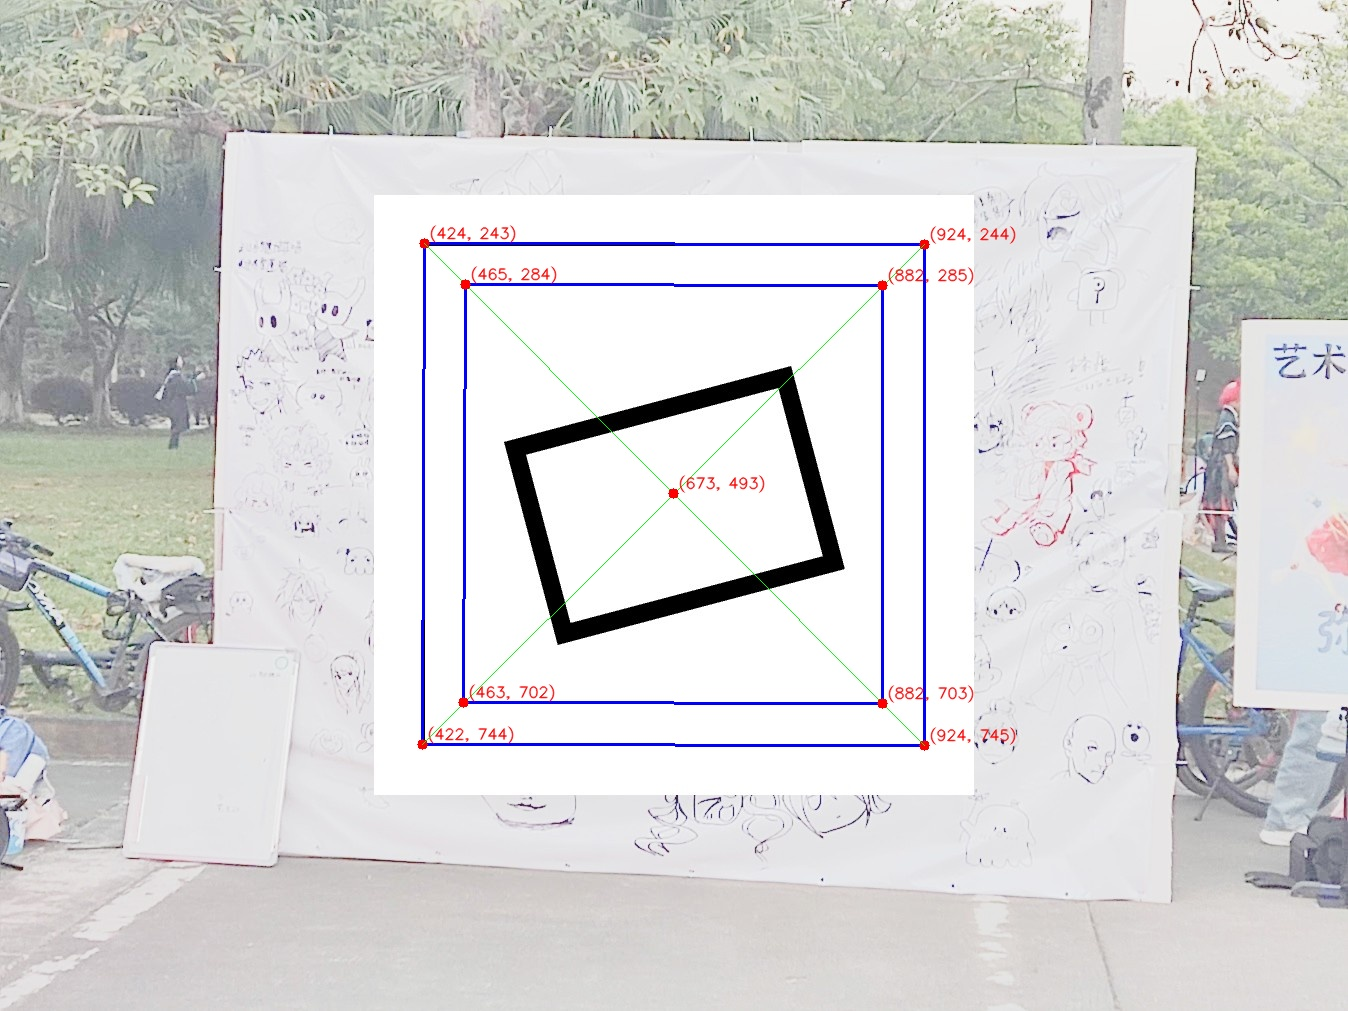
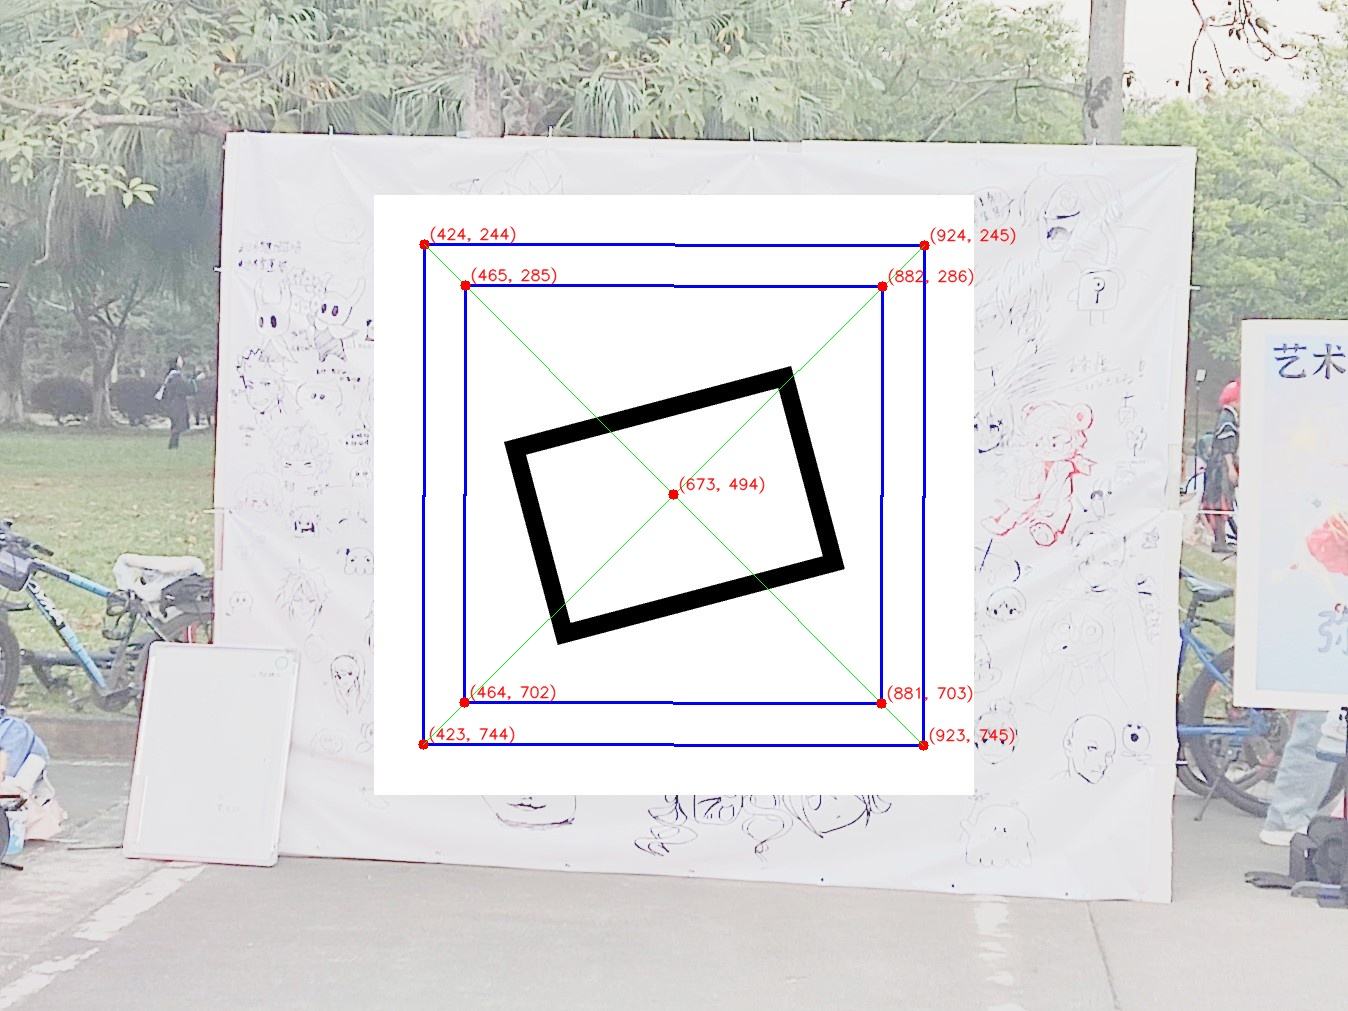
config🔧:

diff --git a/cam8.py b/cam8.py
@@ -69,8 +69,8 @@ def preprocess_image(img):
 
     blur = cv2.GaussianBlur(gray, (5, 5), 0)  # 高斯滤波去噪
 
-    #_, threshold = cv2.threshold(blur, 2, 255, cv2.THRESH_BINARY + cv2.THRESH_OTSU)
-    _, threshold = cv2.threshold(blur, 233, 255, cv2.THRESH_BINARY) # 二值化
+    _, threshold = cv2.threshold(blur, 2, 255, cv2.THRESH_BINARY + cv2.THRESH_OTSU)
+    #_, threshold = cv2.threshold(blur, 233, 255, cv2.THRESH_BINARY) # 二值化
 
     edges = cv2.Canny(threshold, 100, 200)  # 使用Canny算子进行边缘检测
     contours, _ = cv2.findContours(edges, cv2.RETR_TREE, cv2.CHAIN_APPROX_SIMPLE)  # 查找轮廓
